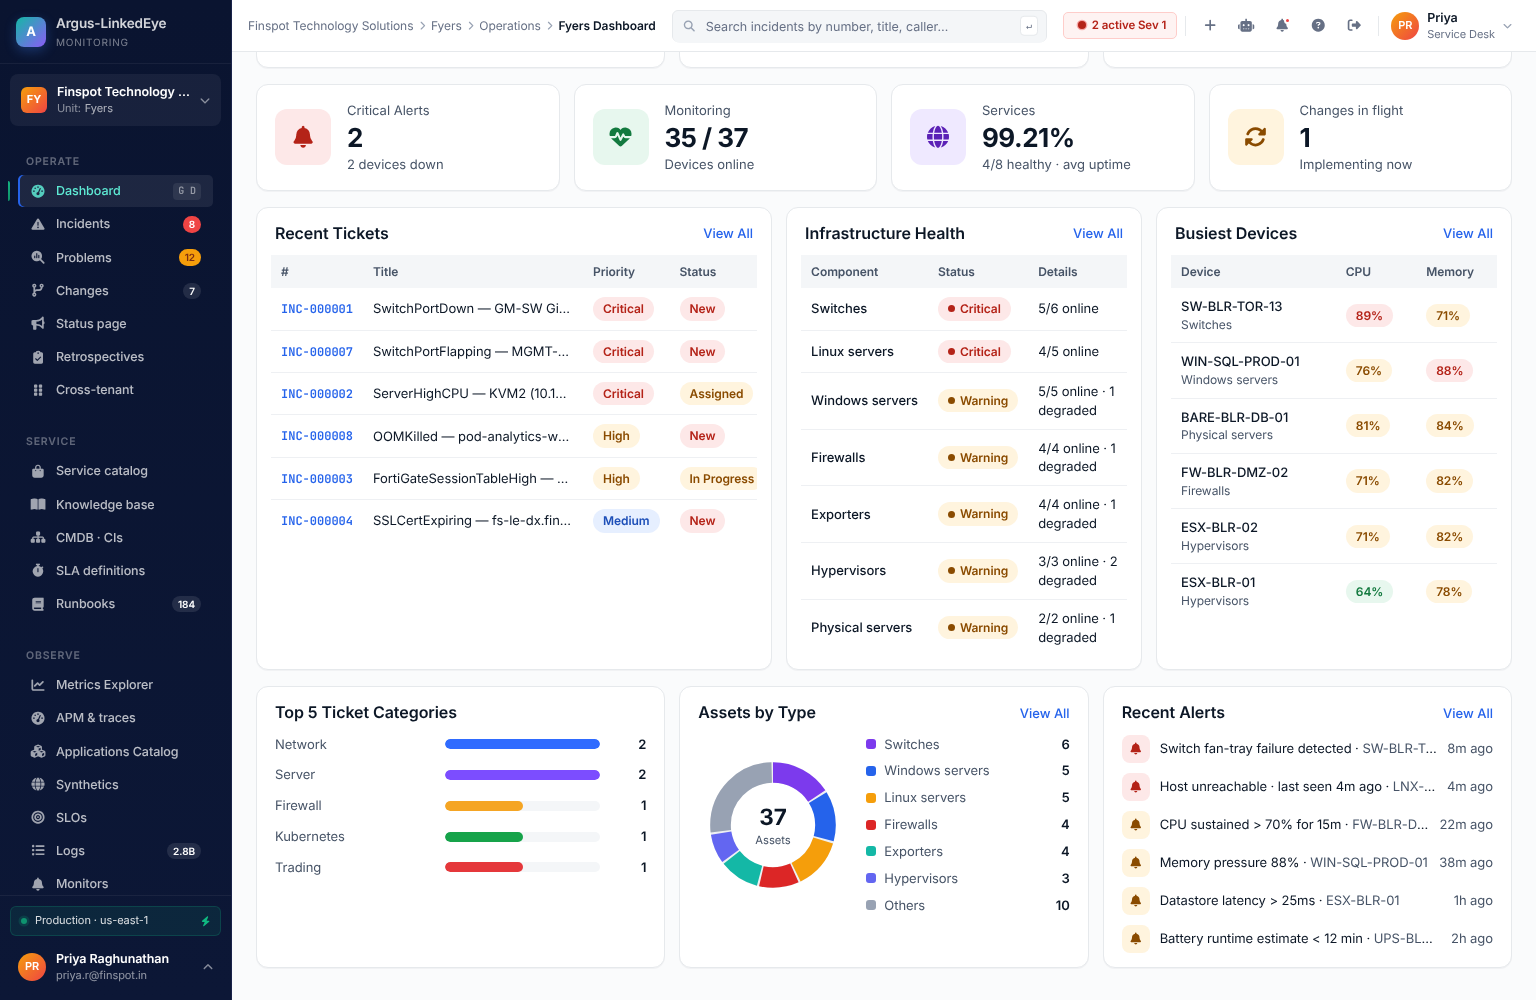
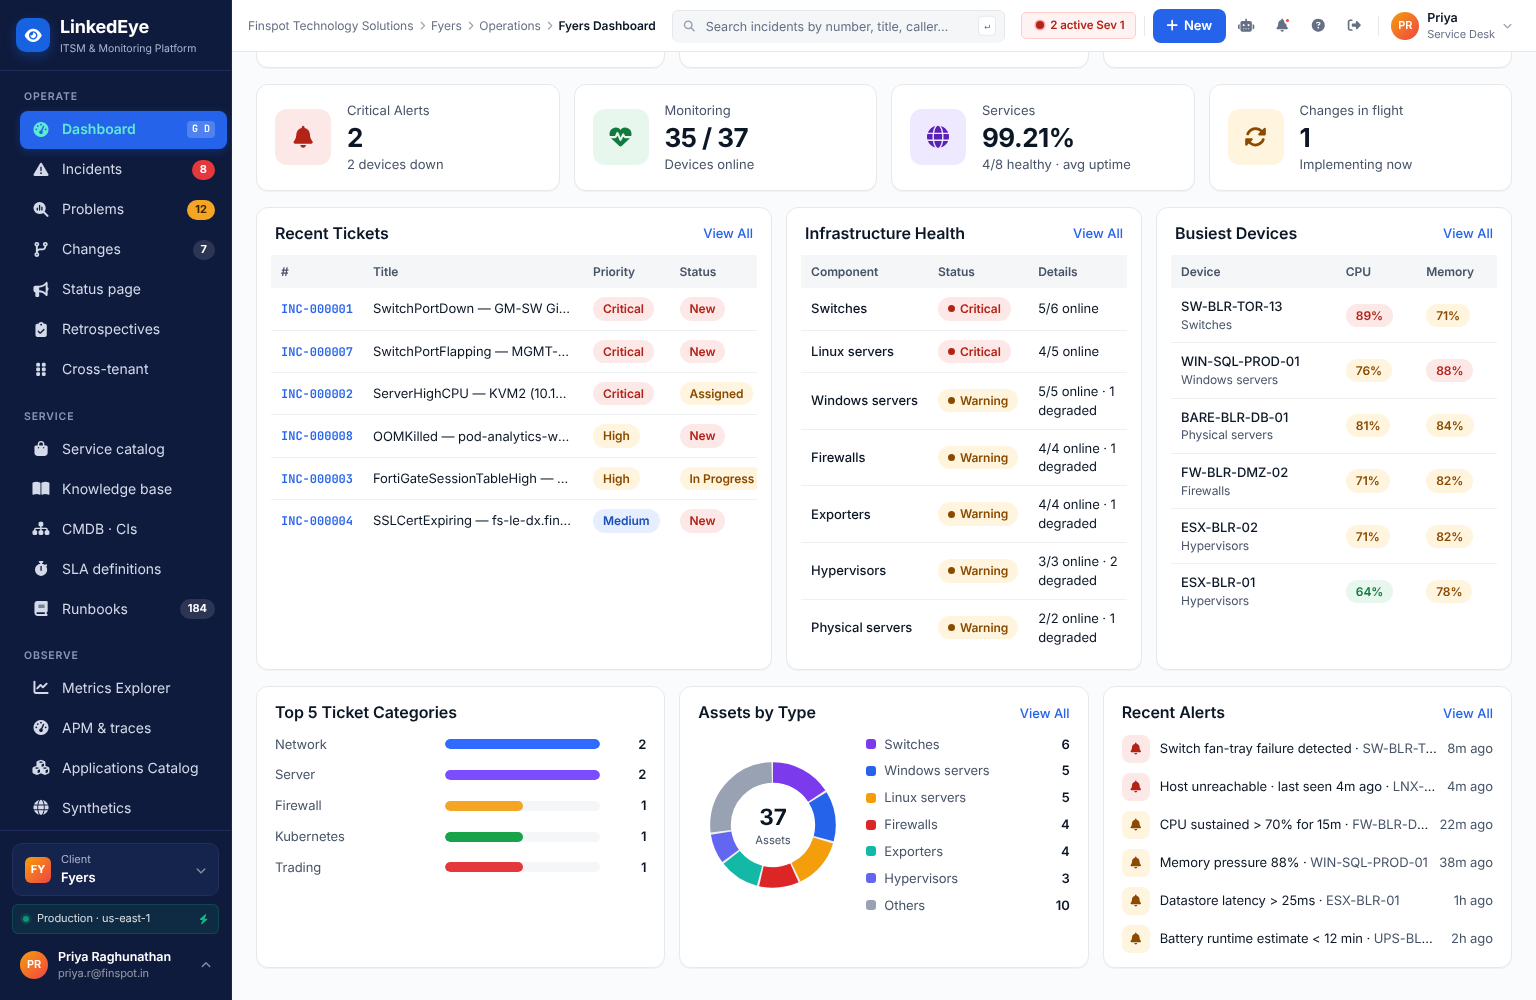
feat(shell): LinkedEye sidebar and header refresh
- Rebrand the sidebar head to "LinkedEye · ITSM & Monitoring Platform"
  with a blue eye logo tile.
- Larger nav items with a solid accent pill for the active page; items
  are now real <button>s with aria-current, so they are keyboard
  reachable. Red/amber pill badges match the new dashboard.
- Move the tenant switcher to the sidebar footer as a "Client" card.
- Replace the header's "+" icon with a labelled "New" primary button,
  and drop the duplicate "New incident" button from the dashboard.
- Refresh the dashboard screenshots.

Claude-Session: https://claude.ai/code/session_01Trp7iHV3MS3Xb8qQu9tAwN

diff --git a/frontend/src/styles.css b/frontend/src/styles.css
@@ -2863,8 +2863,6 @@ button.primary:not(.pay-cta) {
 .ld-head { display: flex; flex-wrap: wrap; align-items: flex-end; justify-content: space-between; gap: 12px; }
 .ld-head h1 { font-size: 26px; font-weight: 700; letter-spacing: -0.02em; color: var(--fg); }
 .ld-head p { font-size: 14px; color: var(--fg-muted); margin-top: 4px; }
-.ld-primary { display: inline-flex; align-items: center; gap: 8px; min-height: 40px; padding: 0 16px; border-radius: var(--radius); border: 0; background: var(--accent); color: #fff; font: inherit; font-size: 14px; font-weight: 600; cursor: pointer; }
-.ld-primary:hover { filter: brightness(0.95); }
 .ld-grid { display: grid; gap: 14px; }
 .ld-grid-stats { grid-template-columns: repeat(auto-fit, minmax(230px, 1fr)); }
 .ld-grid-3 { grid-template-columns: repeat(auto-fit, minmax(340px, 1fr)); }
@@ -2873,7 +2871,7 @@ button.primary:not(.pay-cta) {
 .ld-card { background: var(--bg-raised); border: 1px solid var(--border); border-radius: var(--radius-lg); box-shadow: var(--shadow-sm); }
 .ld-stat { display: flex; align-items: center; gap: 16px; padding: 16px 18px; text-align: left; font: inherit; color: inherit; cursor: pointer; }
 .ld-stat:hover { border-color: var(--border-strong); box-shadow: var(--shadow-md); }
-.ld-stat:focus-visible, .ld-link:focus-visible, .ld-primary:focus-visible { outline: 2px solid var(--accent); outline-offset: 2px; }
+.ld-stat:focus-visible, .ld-link:focus-visible { outline: 2px solid var(--accent); outline-offset: 2px; }
 .ld-stat-body { display: flex; flex-direction: column; gap: 2px; min-width: 0; }
 .ld-stat-label { font-size: 13px; color: var(--fg-muted); }
 .ld-stat-value { font-size: 26px; font-weight: 700; letter-spacing: -0.02em; color: var(--fg); line-height: 1.2; }
@@ -2938,3 +2936,52 @@ button.primary:not(.pay-cta) {
 .ld-activity li { display: flex; align-items: center; gap: 10px; font-size: 13px; }
 .ld-activity-text { flex: 1; min-width: 0; overflow: hidden; text-overflow: ellipsis; white-space: nowrap; color: var(--fg); }
 @media (max-width: 640px) { .ld-dash { padding: 14px 16px 24px; } .ld-grid-3, .ld-grid-tables { grid-template-columns: minmax(0, 1fr); } }
+
+/* ── LinkedEye shell refresh (Sidebar / Header) ──────────────────────── */
+.sidebar { background: #0f1b3d; border-right-color: #1b2a55; }
+.sb-head { min-height: 64px; padding: 14px 16px; border-bottom-color: #1f2d58; }
+.sb-logo { width: 34px; height: 34px; border-radius: 10px; background: #1662e0; font-size: 15px; box-shadow: 0 4px 12px rgba(22, 98, 224, 0.35); }
+.sb-brand b { font-size: 18px; font-weight: 700; letter-spacing: -0.01em; color: #fff; }
+.sb-brand span { font-size: 10.5px; text-transform: none; letter-spacing: 0; color: #aab4d0; white-space: nowrap; overflow: hidden; text-overflow: ellipsis; }
+.sb-nav { padding: 8px 12px 12px; }
+.sb-section-title { color: #8a95b8; padding: 6px 12px 6px; }
+.sb-item {
+  width: 100%; border: 0; background: transparent; font: inherit; text-align: left;
+  gap: 12px; min-height: 38px; padding: 8px 12px; margin-bottom: 2px;
+  border-radius: 8px; font-size: 14px; font-weight: 400; color: #d4daea;
+}
+.sb-item .sb-icon { width: 18px; height: 18px; font-size: 15px; opacity: 1; }
+.sb-item:hover { background: rgba(255, 255, 255, 0.07); color: #fff; }
+.sb-item:focus-visible { outline: 2px solid #5b9bff; outline-offset: 1px; }
+.sb-item.active { background: var(--accent); color: #fff; font-weight: 600; box-shadow: 0 2px 8px rgba(22, 98, 224, 0.3); }
+.sb-item.active::before { display: none; }
+.sb-item .sb-badge { font-size: 11px; font-weight: 700; padding: 2px 8px; border-radius: 999px; background: rgba(255, 255, 255, 0.12); }
+.sb-item .sb-badge.critical { background: #e5383b; color: #fff; }
+.sb-item .sb-badge.warning { background: #f5a524; color: #3b2300; }
+.sb-item.active .sb-badge { background: rgba(255, 255, 255, 0.25); color: #fff; }
+.sb-item.active kbd { background: rgba(255, 255, 255, 0.2); color: #fff; }
+.sb-foot { border-top-color: #1f2d58; padding: 12px; }
+.sidebar .tenant-switch {
+  margin: 0; width: 100%; font: inherit; text-align: left; color: #fff;
+  min-height: 52px; padding: 8px 12px; border-radius: 10px;
+  background: #15244d; border: 1px solid #22305a;
+}
+.sidebar .tenant-switch:hover { background: #1a2b5c; border-color: #2c3c70; }
+.sidebar .tenant-switch:focus-visible { outline: 2px solid #5b9bff; outline-offset: 1px; }
+.tenant-switch .t-body { display: flex; flex-direction: column; }
+.tenant-switch .t-unit-label { font-size: 11px; color: #aab4d0; }
+.tenant-switch .t-org { font-size: 13px; }
+[data-sidebar="light"] .sidebar { background: var(--bg-raised); }
+[data-sidebar="light"] .sidebar .sb-item { color: var(--fg-muted); }
+[data-sidebar="light"] .sidebar .sb-item.active { background: var(--accent); color: #fff; }
+[data-sidebar="light"] .sb-brand b { color: var(--fg); }
+[data-sidebar="light"] .sb-brand span, [data-sidebar="light"] .sidebar .sb-section-title { color: var(--fg-subtle); }
+[data-sidebar="light"] .sidebar .tenant-switch { background: var(--bg-muted); border-color: var(--border); color: var(--fg); }
+[data-sidebar="light"] .tenant-switch .t-unit-label { color: var(--fg-subtle); }
+.hdr-new {
+  display: inline-flex; align-items: center; gap: 6px; min-height: 34px; padding: 0 14px;
+  border: 0; border-radius: var(--radius); background: var(--accent); color: #fff;
+  font: inherit; font-size: 13px; font-weight: 600; cursor: pointer;
+}
+.hdr-new:hover { filter: brightness(0.95); }
+.hdr-new:focus-visible { outline: 2px solid var(--accent); outline-offset: 2px; }

diff --git a/frontend/src/components/Shell.tsx b/frontend/src/components/Shell.tsx
@@ -122,20 +122,11 @@ export function Sidebar() {
   return (
     <aside className="sidebar">
       <div className="sb-head">
-        <div className="sb-logo">A</div>
+        <div className="sb-logo" aria-hidden="true"><i className="fa-solid fa-eye" /></div>
         <div className="sb-brand">
-          <b>Argus-LinkedEye</b>
-          <span>Monitoring</span>
+          <b>LinkedEye</b>
+          <span>ITSM &amp; Monitoring Platform</span>
         </div>
-      </div>
-
-      <div className="tenant-switch" onClick={() => setSwitcher(true)}>
-        <div className="t-icon" style={{ background: colorFor(tenant.color) }}>{tenant.code}</div>
-        <div className="t-body">
-          <div className="t-org">{ORG.name}</div>
-          <div className="t-unit"><span className="t-unit-label">Unit:</span> {tenant.name}</div>
-        </div>
-        <i className="fa-solid fa-chevron-down" />
       </div>
 
       <nav className="sb-nav">
@@ -145,18 +136,32 @@ export function Sidebar() {
             {sec.items.filter((i) => !i.hidden).map((i) => {
               const badge = badgeFor(i);
               return (
-              <div key={i.id} className={`sb-item${route === i.id ? " active" : ""}`} onClick={() => setRoute(i.id)}>
-                <span className="sb-icon"><i className={`fa-solid ${i.icon}`} /></span>
+              <button
+                type="button"
+                key={i.id}
+                className={`sb-item${route === i.id ? " active" : ""}`}
+                aria-current={route === i.id ? "page" : undefined}
+                onClick={() => setRoute(i.id)}
+              >
+                <span className="sb-icon" aria-hidden="true"><i className={`fa-solid ${i.icon}`} /></span>
                 <span className="sb-label">{i.label}</span>
                 {badge && <span className={`sb-badge ${badge.kind}`}>{badge.n}</span>}
                 {!badge && i.kbd && <kbd>{i.kbd}</kbd>}
-              </div>
+              </button>
             );})}
           </div>
         ))}
       </nav>
 
       <div className="sb-foot">
+        <button type="button" className="tenant-switch" onClick={() => setSwitcher(true)} title={`${ORG.name} · switch client`}>
+          <span className="t-icon" style={{ background: colorFor(tenant.color) }} aria-hidden="true">{tenant.code}</span>
+          <span className="t-body">
+            <span className="t-unit-label">Client</span>
+            <span className="t-org">{tenant.name}</span>
+          </span>
+          <i className="fa-solid fa-chevron-down" aria-hidden="true" />
+        </button>
         <div className="sb-env">
           <span className="env-dot" />
           <span>Production · us-east-1</span>
@@ -239,7 +244,9 @@ export function Header() {
           </div>
         )}
         <div className="hdr-divider" />
-        <button className="icon-btn" title="Create"><i className="fa-solid fa-plus" /></button>
+        <button type="button" className="hdr-new" onClick={() => setRoute("incident-new")}>
+          <i className="fa-solid fa-plus" aria-hidden="true" /> New
+        </button>
         <button className="icon-btn" title="Automation"><i className="fa-solid fa-robot" /></button>
         <button className="icon-btn" title="Notifications"><i className="fa-solid fa-bell" /><span className="dot" /></button>
         <button className="icon-btn" title="Help"><i className="fa-solid fa-circle-question" /></button>

diff --git a/frontend/src/screens/DashboardScreen.tsx b/frontend/src/screens/DashboardScreen.tsx
@@ -7,7 +7,6 @@
 // deployment renders honestly instead of showing illustrative numbers.
 import React from "react";
 import { useNav } from "@/hooks/useNav";
-import { useCanWrite } from "@/auth/auth";
 import {
   useIncidents,
   useIncidentRecords,
@@ -229,7 +228,6 @@ function TrendChart({ days }: { days: { label: string; opened: number; resolved:
 
 export default function DashboardScreen() {
   const { setRoute } = useNav();
-  const canWrite = useCanWrite();
 
   const tickets = useIncidentRecords().data ?? [];
   const incidents = useIncidents().data ?? [];
@@ -329,11 +327,6 @@ export default function DashboardScreen() {
           <h1>Dashboard</h1>
           <p>Complete view of your IT infrastructure, services, and support operations</p>
         </div>
-        {canWrite && (
-          <button type="button" className="ld-primary" onClick={() => setRoute("incident-new")}>
-            <i className="fa-solid fa-plus" aria-hidden="true" /> New incident
-          </button>
-        )}
       </div>
 
       <div className="ld-grid ld-grid-stats">
